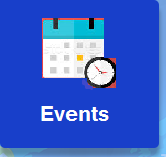
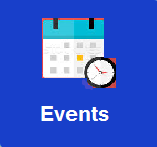
css changes
blogs,

Changed region(s): [[0.2293, 0.1088, 0.7389, 0.6259], [0.0, 0.0, 1.0, 1.0], [0.2293, 0.6531, 0.7134, 0.8435]]

diff --git a/src/pages/home/home.html b/src/pages/home/home.html
@@ -18,33 +18,33 @@
          ಜರುಗಲಿದೆ.      * ಮುಗಳಖೋಡ ಜಿಡಗಾ ಮಠ : ಶ್ರೀ ಸಿದ್ಧರಾಮೇಶ್ವರ ಸಂಕಲ್ಪದಂತೆ ಅನುಭವ ಮಂಟಪವು 2018ರ ಜನೆವರಿ 12, 13,14 ರಂದು ಜರುಗಲಿದೆ
       </h4>
       <div class="spacer" style="height:10px;" ></div>
-      <ion-slides effect="fade" centeredSlides zoom="true" speed="1000" autoplay="8000" pager loop paginationType="bullets" style="width:100%;height: 100%;">
-         <ion-slide *ngFor="let slide of slides">
-            <img [src]="slide" style="display:block;width:100%;height:auto;" >
+      <ion-slides effect="fade" centeredSlides zoom="true" speed="1000" autoplay="8000" pager loop paginationType="bullets">
+         <ion-slide *ngFor="let slide of slides" class="swipe-slider-new">
+            <img [src]="slide" style="display:block;width:100%;height:250px;" >
          </ion-slide>
       </ion-slides>
    </div>
    <div class="spacer" style="height:5px;" id="gallery-spacer1"></div>
-   <!-- <ion-img width="75" height="75" (click)="goToEvents()" src="assets/img/fair-stand.png"></ion-img>
-      <ion-img width="75" height="75" on-click="goToJagadgurus()" src="assets/img/events.jpg"></ion-img>
+   <!-- <ion-img class="icon-image" width="75" height="75" (click)="goToEvents()" src="assets/img/fair-stand.png"></ion-img>
+      <ion-img class="icon-image" width="75" height="75" on-click="goToJagadgurus()" src="assets/img/events.jpg"></ion-img>
       
-      <ion-img width="75" height="75" (click)="goToEvents()" src="assets/img/Gallery.png"></ion-img> -->
+      <ion-img class="icon-image" width="75" height="75" (click)="goToEvents()" src="assets/img/Gallery.png"></ion-img> -->
    <!-- <div class="col col-25"  >
-      <ion-img width="75" height="75" on-click="goToJagadgurus()" src="assets/img/about-mutt-icon.png">
+      <ion-img class="icon-image" width="75" height="75" on-click="goToJagadgurus()" src="assets/img/about-mutt-icon.png">
         
       </ion-img>
       </div>
       
       <div class="col col-25"  >
-      <ion-img width="75" height="75" on-click="goToEvents()" src="assets/img/events-icon.png"></ion-img>
+      <ion-img class="icon-image" width="75" height="75" on-click="goToEvents()" src="assets/img/events-icon.png"></ion-img>
       </div>
       
       <div class="col col-25"  >
-      <ion-img width="75" height="75" on-click="goToGallery()" src="assets/img/galley-icon.png"></ion-img>
+      <ion-img class="icon-image" width="75" height="75" on-click="goToGallery()" src="assets/img/galley-icon.png"></ion-img>
       </div>
       
       <div class="col col-25"  >
-      <ion-img width="75" height="75" on-click="goToSankalpaYatre()" src="assets/img/sanklpa-yatre-icon.png">
+      <ion-img class="icon-image" width="75" height="75" on-click="goToSankalpaYatre()" src="assets/img/sanklpa-yatre-icon.png">
       </ion-img>
       </div>
       
@@ -53,48 +53,57 @@
       <!-- <ion-grid> -->
       <!-- <ion-row justify-content-center >
          <ion-col col-50 style="font-size: large;color: black;text-align:center;">
-           <ion-img class="circle-pic" width="75" height="75" on-click="goToSankalpaYatre()" src="assets/img/sanklpa-yatre-icon.png">
+           <ion-img class="icon-image" class="circle-pic" width="75" height="75" on-click="goToSankalpaYatre()" src="assets/img/sanklpa-yatre-icon.png">
            </ion-img>
          </ion-col>
          
          <ion-col col-50 style="font-size: large;color: black;text-align:center;">
-           <ion-img width="75" height="75" on-click="goToEvents()" src="assets/img/events-icon.png"></ion-img>
+           <ion-img class="icon-image" width="75" height="75" on-click="goToEvents()" src="assets/img/events-icon.png"></ion-img>
          </ion-col>
          </ion-row>
          
          <ion-row justify-content-center >
          <ion-col col-50 style="font-size: large;color: black;text-align:center;">
-           <ion-img width="75" height="75" on-click="goToGallery()" src="assets/img/galley-icon.png"></ion-img>
+           <ion-img class="icon-image" width="75" height="75" on-click="goToGallery()" src="assets/img/galley-icon.png"></ion-img>
          </ion-col>
          
          <ion-col col-50 style="font-size: large;color: black;text-align:center;">
-            <ion-img width="75" height="75" on-click="goToJagadgurus()" src="assets/img/about-mutt-icon.png">
+            <ion-img class="icon-image" width="75" height="75" on-click="goToJagadgurus()" src="assets/img/about-mutt-icon.png">
             </ion-img>
          </ion-col>
          </ion-row> -->
-      <ion-slides effect="slide" zoom="true" autoplay="null" pager  paginationType="bullets" style="border-radius: 30%;">
+      <ion-slides effect="slide" zoom="true" autoplay="null" pager  paginationType="bullets" >
          <ion-slide >    
 
-            <ion-img width="75" height="75" on-click="goToSankalpaYatre()" src="assets/img/sanklpa-yatre-icon.png" style="border-radius: 30%;">
+            
+
+         <!--  <button class="icon-image" > -->
+      <ion-img  class="img_border_r" width="75" height="75" on-click="goToSankalpaYatre()" src="assets/img/sanklpa-yatre-icon.png" >
             </ion-img>
+   <!--  </button> -->
          <!-- </ion-slide>
          <ion-slide > -->
-            <ion-img width="75" height="75" on-click="goToEvents()" src="assets/img/events-icon.png" style="border-radius: 30%;"></ion-img>
+            <ion-img class="img_border_r" width="75" height="75" on-click="goToEvents()" src="assets/img/events-icon.png" style="border-radius: 30%;"></ion-img>
          <!-- </ion-slide>
          <ion-slide > -->
-            <ion-img width="75" style="border-radius: 30%;" height="75" on-click="goToJagadgurus()" src="assets/img/about-mutt-icon.png">
+            <ion-img class="img_border_r" width="75" style="border-radius: 30%;" height="75" on-click="goToJagadgurus()" src="assets/img/about-mutt-icon.png">
             </ion-img>
         <!--  </ion-slide>
          <ion-slide > -->
             
-            <ion-img width="75" style="border-radius: 30%;" height="75" on-click="goToGallery()" src="assets/img/galley-icon.png"></ion-img>
+            <ion-img class="img_border_r" width="75" style="border-radius: 30%;" height="75" on-click="goToGallery()" src="assets/img/galley-icon.png"></ion-img>
          </ion-slide>
       </ion-slides>
       <!-- </ion-grid> -->
    </div>
    <hr>
    <div>
-      
+    <div   id="gallery-spacer0" style="    font-size: 2rem;
+font-weight: bolder;background-color: #BB7F5A;
+      font-size: medium;
+      font-family: cursive;text-align: -webkit-center;">
+      ಶ್ರೀ ಸಿದ್ಧರಾಮೇಶ್ವರ ಸಂಕಲ್ಪ ಯಾತ್ರೆ
+   </div>  
      <h6> ಶ್ರೀ ಸಿದ್ದರಾಮೇಶ್ವರ ಸಂಕಲ್ಪ ಜಾತ್ರೆಗೆ ಭರ್ಜರಿ ತಯಾರಿ, ಶ್ರೀಮಠದ ಆವರಣದಲ್ಲಿ ಎಡಬಿಡೆದೆ ಸಾಗುತ್ತಿವೆ ವಿವಿಧ ಕಟ್ಟಡಗಳ ಕಾಮಗಾರಿ, ಗುರುಗಳ ಸಂಕ್ಪವನ್ನು ಇಡೇರಿಸಲು ಹಗಲಿರುಳೆನ್ನದೆ ಕಾರ್ಯಪ್ರವರ್ತರಾಗಿರುವ ಡಾ ಮುರುಘರಾಜೇಂದ್ರ ಸ್ವಾಮಿಜೀ.
 ಮುಗಳಖೋಡ: ಉತ್ತರ ಕರ್ನಾಟಕದಲ್ಲಿ ಕೀರ್ತಿ ಶಿಖರವಾಗಿರುವ ಪಟ್ಟಣದ ಶ್ರೀ ಯಲ್ಲಾಲಿಂಗೇಶ್ವರ ಬೃಹನ್ ಮಠವು ಶರಣ ಪರಂಪರೆಯ ಪತಾಕೆಯನ್ನು ವಚನ ಕ್ರಾಂತಿಯ ಕಳೆಯನ್ನು ಮತ್ತೊಮ್ಮೆ ದೇಶದ ಉದ್ದಗಲಕ್ಕೂ ಪಸರಿಸುವ ವಿಶಿಷ್ಟವಾದ ಕಾರ್ಯಕ್ರಮವನ್ನು ರೂಪಿಸುತ್ತಿದೆ. ಜಾತ್ಯಾತೀತ ಸಂದೇಶವನ್ನು ಸಾರುತ್ತ ಭಾವೈಕ್ಯತೆಯ ಸಮಾಗಮ, ಭಾರತೀಯ ಸಂಸ್ಕøತಿಯ ಅನಾವರಣ ಹಾಗೂ ತ್ರಿವಿಧ ದಾಸೋಹವನ್ನು ನಡೆಸಿಕೊಂಡು ಬರುತ್ತಿದೆ. 12ನೇ ಶತಮಾನದಲ್ಲಿ ಅಣ್ಣ ಬಸವಣ್ಣನವರು ಸಾಮಾಜಿಕ ಪಿಡಗುಗಳ ನಿರ್ಮೂಲನೆಗಾಗಿ ಕಲ್ಯಾಣದಲ್ಲಿ ಅನುಭವ ಮಂಟಪ ನಿರ್ಮಿಸಿ, ವಚನ ಕ್ರಾಂತಿಯನ್ನು ನಡೆಸಿದರು. ಅಂದು ನಡೆದ ಬಸವಣ್ಣನವರ ಅನುಭವ ಮಂಟಪದ ಪ್ರತಿಬಿಂಬ ವಚನ ಸಾಹಿತ್ಯದ ಕ್ರಾಂತಿಯ ಕಳೆ ಇಂದು ಸುಕ್ಷೇತ್ರ ಮುಗಳಖೋಡ ಜಿಡಗಾ ಮಠದ ಪೀಠಾಪತಿಗಳಾದ ಡಾ ಮುರುಘರಾಜೇಂದ್ರ ಸ್ವಾಮಿಜೀಯವರು ತಮ್ಮ ಗುರುಗಳ ಸಂಕಲ್ಪದಂತೆ ಶ್ರೀ ಸಿದ್ಧರಾಮೇಶ್ವರ ಸಂಕಲ್ಪ ಜಾತ್ರೆ ಎಂಬ ಶಿರ್ಷೀಕೆಯಲ್ಲಿ ನಡೆಸುತ್ತಿರುವ ಕಾರ್ಯಕ್ರಮವನ್ನು ಒಂದು ಬಾರಿ ವಿಶ್ಲೇಷಿಸಿದರೆ ಅಂದಿನ ವೆಭವ ಇಂದು ಎನ್ನುವುದು ಅಕ್ಷರ ಸಹ ಸತ್ಯವಾದ ಮಾತು.
 </h6>

diff --git a/src/pages/jagadgurus/jagadgurus.html b/src/pages/jagadgurus/jagadgurus.html
@@ -8,18 +8,18 @@
     </ion-title>
   </ion-navbar>
 </ion-header>
-<ion-content  padding id="page2" style="background-color:#ffe3ee;">
+<ion-content  padding id="page2" style="background-color:#DB9B67;">
   <ion-list id="jagadgurus-list2" >
-    <ion-item class="icon-item-bg" color="positive" on-click="goToAboutGuru()" style="background-color:#ffe3ee;text-align:center;font-family: sans-serif;
-font-size: larger;color: orangered;" id="jagadgurus-list-item15">
+    <ion-item class="icon-item-bg" color="positive" on-click="goToAboutGuru()" style="background-color:#fdf5f8;text-align:center;font-family: sans-serif;
+font-size: larger;color: brown;" id="jagadgurus-list-item15">
       <ion-icon name="sunny" item-center></ion-icon>
       About Guru
       <ion-icon name="sunny" item-center></ion-icon>
     </ion-item>
-    <div class="spacer" style="height:5px;" id="jagadgurus-1spacer1"></div>
+    <div class="spacer" style="height:20px;" id="jagadgurus-1spacer1"></div>
     <ion-item class="icon-item-bg" color="positive" on-click="goToSriSiddalingaAppaji()" id="jagadgurus-list-item10">
       <ion-thumbnail item-left>
-        <img src="assets/img/SiddalingaAppaji.jpg" />
+        <img class="icon-image" src="assets/img/SiddalingaAppaji.jpg" />
       </ion-thumbnail>
       <h2 class="jagadguruHeader"> 
         Sri Siddalinga Appaji
@@ -27,11 +27,11 @@ font-size: larger;color: orangered;" id="jagadgurus-list-item15">
       <p class="pwrap">Born on 1848 in the month of Shravana masa, at Kakkalameli village, Sindgi Tq, Bijapur district</p>
     </ion-item>
 
-    <div class="spacer" style="height:5px;" ></div>
+    <div class="spacer" style="height:8px;" ></div>
 
     <ion-item class="icon-item-bg" color="positive" on-click="goToSriYallalingAppaji()" id="jagadgurus-list-item14">
       <ion-thumbnail item-left>
-        <img src="assets/img/YallalingaAppaji.jpg" />
+        <img class="icon-image" src="assets/img/YallalingaAppaji.jpg" />
       </ion-thumbnail>
       <h2 class="jagadguruHeader"> 
         Sri Yallaling Appaji
@@ -39,12 +39,12 @@ font-size: larger;color: orangered;" id="jagadgurus-list-item15">
        <p class="pwrap">Born on July 13, 1885 at Miragi village, Sindagi Tq, Bijapur district. he was named Yallappa</p>
     </ion-item>
 
-    <div class="spacer" style="height:5px;" ></div>
+    <div class="spacer" style="height:8px;" ></div>
 
 
     <ion-item class="icon-item-bg" color="positive" on-click="goToSriSiddarameshwaraAppaji()" id="jagadgurus-list-item11">
       <ion-thumbnail item-left>
-        <img src="assets/img/dodda-appaji.jpg" />
+        <img class="icon-image" src="assets/img/dodda-appaji.jpg" />
       </ion-thumbnail>
       <h2 class="jagadguruHeader"> 
         Sri Siddarameshwara Appaji
@@ -52,12 +52,12 @@ font-size: larger;color: orangered;" id="jagadgurus-list-item15">
       <p class="pwrap">Born on sept. 18, 1928 at Jambaga village, Aland Tq, Gulbarga district. </p>
     </ion-item>
 
-    <div class="spacer" style="height:5px;" ></div>
+    <div class="spacer" style="height:8px;" ></div>
 
     
     <ion-item class="icon-item-bg" color="positive" on-click="goToSriMurugharajendraAppaji()" id="jagadgurus-list-item12">
       <ion-thumbnail item-left>
-        <img src="assets/img/MurugharajAppaji.jpg" />
+        <img class="icon-image" src="assets/img/MurugharajAppaji.jpg" />
       </ion-thumbnail>
       <h2 class="jagadguruHeader"> 
         Sri Murugharajendra Appaji

diff --git a/src/pages/about-guru/about-guru.html b/src/pages/about-guru/about-guru.html
@@ -8,13 +8,13 @@
     </ion-title>
   </ion-navbar>
 </ion-header>
-<ion-content padding id="page13" style="background-color:#C1F0F0;">
+<ion-content padding id="page13" style="background-color:#e5dede;">
   <div>
     <img src="assets/img/about-guru.jpg" style="display:block;width:50%;height:50%;margin-left:auto;margin-right:auto;" />
   </div>
-  <div>
+  <!-- <div>
     <img src="assets/img/Ad8wODOET3BPVEB9WBPl_gurugita5" style="display:block;width:100%;height:auto;margin-left:auto;margin-right:auto;" />
-  </div>
+  </div> -->
   <div id="aboutGuru-markdown9" style="text-align:center;" class="show-list-numbers-and-dots">
     <p style="color:#000000;">
       (Guru is Brahma. Guru is Vishnu. Guru is Siva. Guru is the Supreme Brahman Itself. Prostration to that Guru.)

diff --git a/src/pages/sri-siddarameshwara-appaji/sri-siddarameshwara-appaji.html b/src/pages/sri-siddarameshwara-appaji/sri-siddarameshwara-appaji.html
@@ -12,9 +12,9 @@
   <h4 id="sriSiddarameshwaraAppaji-heading9" style="color:#ad100e;text-align:center;">
     Life Sketch of Sri Sri Shadakshari Shivayogi Siddarameshwara Appaji
   </h4>
-  <div>
+  <!-- <div>
     <img src="assets/img/xpc7hPsS76MAwtkfZzXq_gurugita5" style="display:block;width:100%;height:auto;margin-left:auto;margin-right:auto;" />
-  </div>
+  </div> -->
   <div id="sriSiddarameshwaraAppaji-markdown10" style="text-align:center;" class="show-list-numbers-and-dots">
     <p style="color:#000000;font-size:18px;">
       The form of Guru is the root of meditation. The feet of Guru are the root of worship. The teaching of the Guru is the root of all Mantras. The Grace of Guru is the root of Salvation.

diff --git a/src/pages/sri-murugharajendra-appaji/sri-murugharajendra-appaji.html b/src/pages/sri-murugharajendra-appaji/sri-murugharajendra-appaji.html
@@ -12,9 +12,9 @@
   <h4 id="sriMurugharajendraAppaji-heading10" style="color:#ad100e;text-align:center;">
     Life Sketch of Param Pujya Sri Shadakshari Shivayogi Murugharajendra Appaji
   </h4>
-  <div>
+  <!-- <div>
     <img src="assets/img/bKEb7GXzT3y31uzwhWAf_murg_gg" style="display:block;width:100%;height:auto;margin-left:auto;margin-right:auto;" />
-  </div>
+  </div> -->
   <div id="sriMurugharajendraAppaji-markdown11" style="text-align:center;" class="show-list-numbers-and-dots">
     <p style="color:#000000;font-size:18px;">
       Thou art Vishnu. Thou art Brahma. Thou art the god Mahesvara. Thou alone art the form of Sakti. Thou art the attributeless Eternal.

diff --git a/src/pages/sri-yallaling-appaji/sri-yallaling-appaji.html b/src/pages/sri-yallaling-appaji/sri-yallaling-appaji.html
@@ -12,9 +12,9 @@
   <h4 id="sriYallalingAppaji-heading7" style="color:#ad100e;text-align:center;">
     Life Sketch of Sri Sri Sadguru Yallaling Appaji
   </h4>
-  <div>
+  <!-- <div>
     <img src="assets/img/Nkxj3695SEuvFG8xFkFW_gurugeeta27" style="display:block;width:100%;height:auto;margin-left:auto;margin-right:auto;" />
-  </div>
+  </div> -->
   <div id="sriYallalingAppaji-markdown8" style="text-align:center;" class="show-list-numbers-and-dots">
     <p style="color:#000000;font-size:18px;">
       Guru is Siva. Guru is God. Guru is the relative (friend) of human beings. Guru is the Atman. Guru is the Jiva. There is nothing other than Guru.

diff --git a/src/pages/sri-siddalinga-appaji/sri-siddalinga-appaji.html b/src/pages/sri-siddalinga-appaji/sri-siddalinga-appaji.html
@@ -12,9 +12,9 @@
   <h4 id="sriSiddalingaAppaji-heading6" style="color:#ad100e;text-align:center;">
     Life Sketch of Sri Sri Sharano Shankara Siddalinga Appaji
   </h4>
-  <div>
+  <!-- <div>
     <img src="assets/img/UNwVP6uTX2DWX1YRRh2Q_sid_gg" style="display:block;width:100%;height:auto;margin-left:auto;margin-right:auto;" />
-  </div>
+  </div> -->
   <div id="sriSiddalingaAppaji-markdown7" style="text-align:center;" class="show-list-numbers-and-dots">
     <p style="color:#000000;font-size:18px;">
       Prostration to that Guru, who is beyond Nada, Bindu and Kala, who is Pure Consciousness, Eternal, Peaceful, beyond space and untainted.

diff --git a/src/pages/blogs/blogs.html b/src/pages/blogs/blogs.html
@@ -14,7 +14,7 @@
     
     <ion-item class="icon-item-bg" color="positive" on-click="goToBlogDetail(blogsdata)" id="blogs-list-item10">
       <ion-thumbnail item-left>
-        <img src="{{bdata.BlogIcon}}" />
+        <img style="border-radius: 2rem;" src="{{bdata.BlogIcon}}" />
       </ion-thumbnail>
       <h2 class="jagadguruHeader"> 
          {{bdata.BlogTitle}}

diff --git a/src/pages/contacts/contacts.html b/src/pages/contacts/contacts.html
@@ -8,7 +8,7 @@
     </ion-title>
   </ion-navbar>
 </ion-header>
-<ion-content padding id="page8" style="background-color:#DFCDEE;">
+<ion-content padding id="page8" style="background-color:#f2e6e6;">
   <div id="contacts-container3">
     <h3>Adminstrative Office</h3>
     <div style="margin-left:-10px;width:calc(100% + 20px);">

diff --git a/src/pages/home/home.scss b/src/pages/home/home.scss
@@ -29,8 +29,17 @@ page-home {
     }*/
 
     h6 {
-    font-size: 2rem;
-    text-align:center;
+        font-size: 2rem;
+        text-align:center;
+    }
+
+ion-img.img_border_r.img-loaded img {
+    border-radius: 1rem;
+}   
+
+swiper-slider-new{
+  height:250px !important;  
 }
 
 }
+

diff --git a/src/pages/jagadgurus/jagadgurus.scss b/src/pages/jagadgurus/jagadgurus.scss
@@ -17,8 +17,14 @@ page-jagadgurus {
 	}
 
 	.icon-item-bg{
-		background-color:#ffe3ee;
-		border-radius:5px 5px 5px 5px;
+		background-color:#fdf5f8;
+		border-radius:15px 15px 15px 15px;
 
 	}
+	
+	.icon-image{
+	    border-radius: 1.7rem;
+
+	}
+
 }
